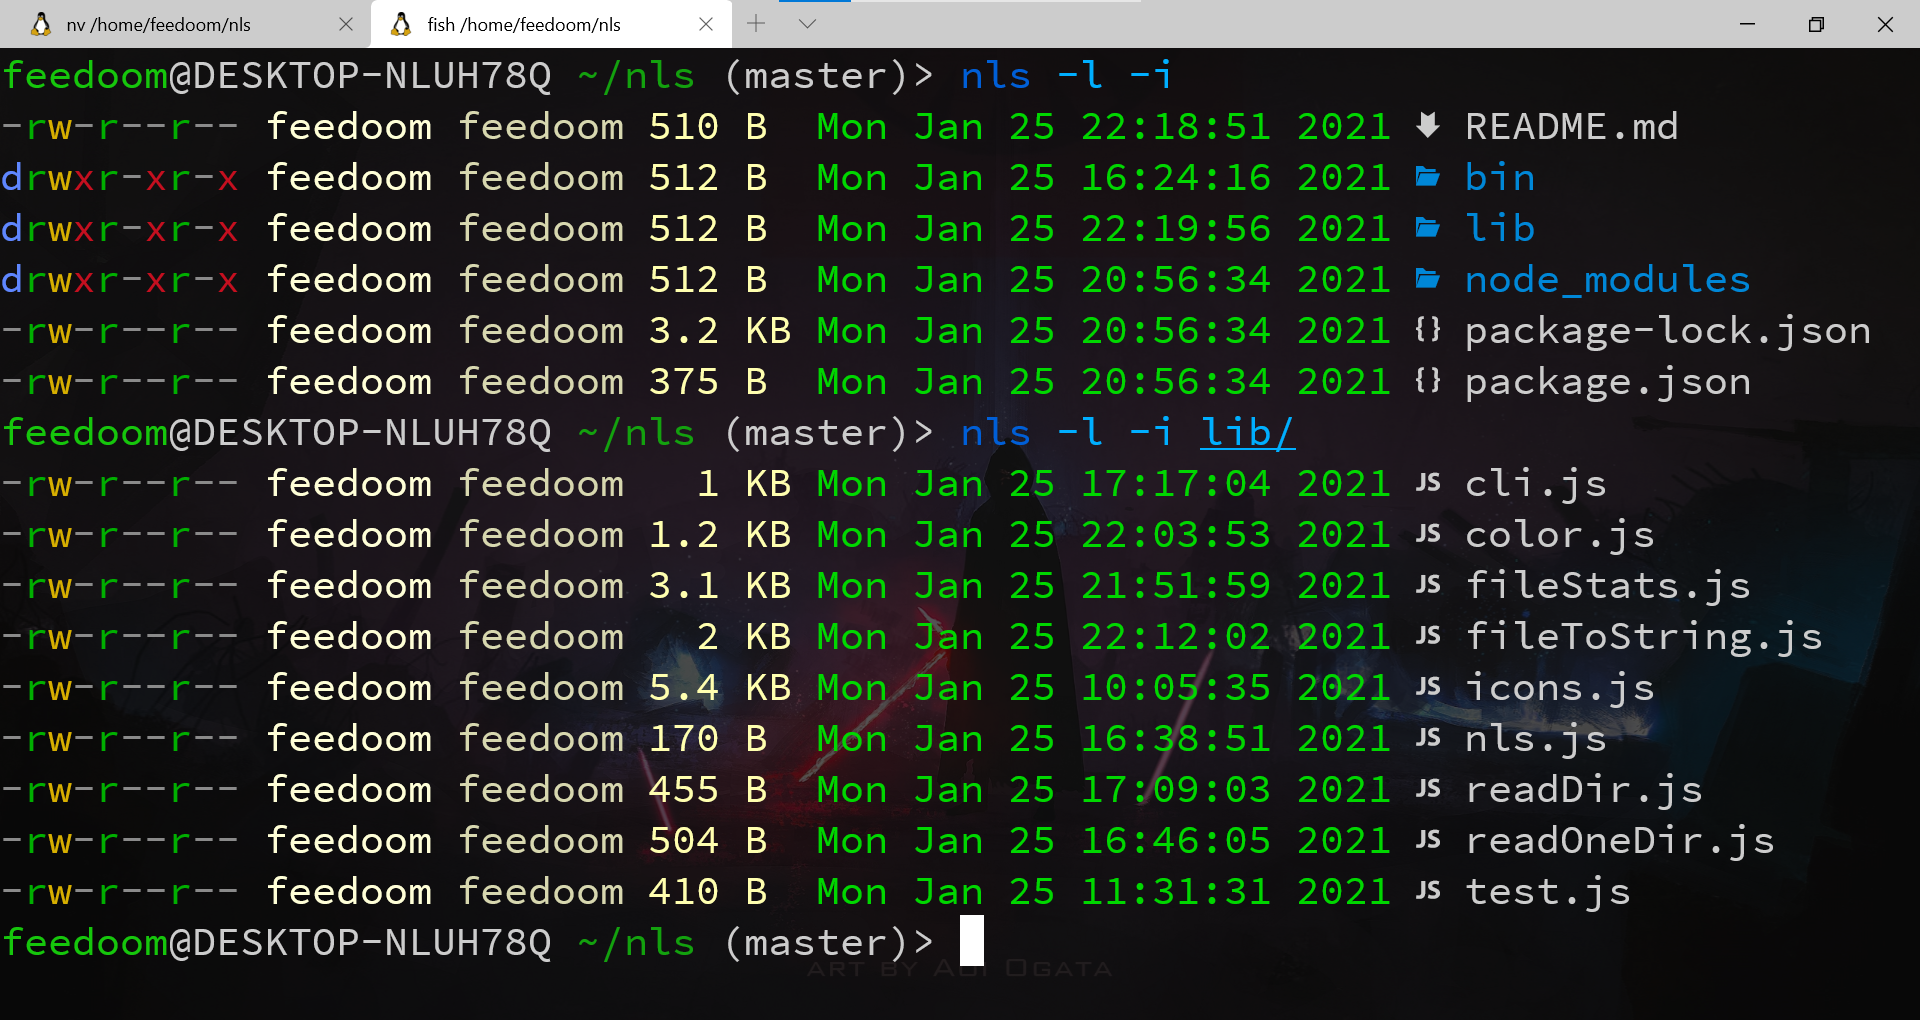
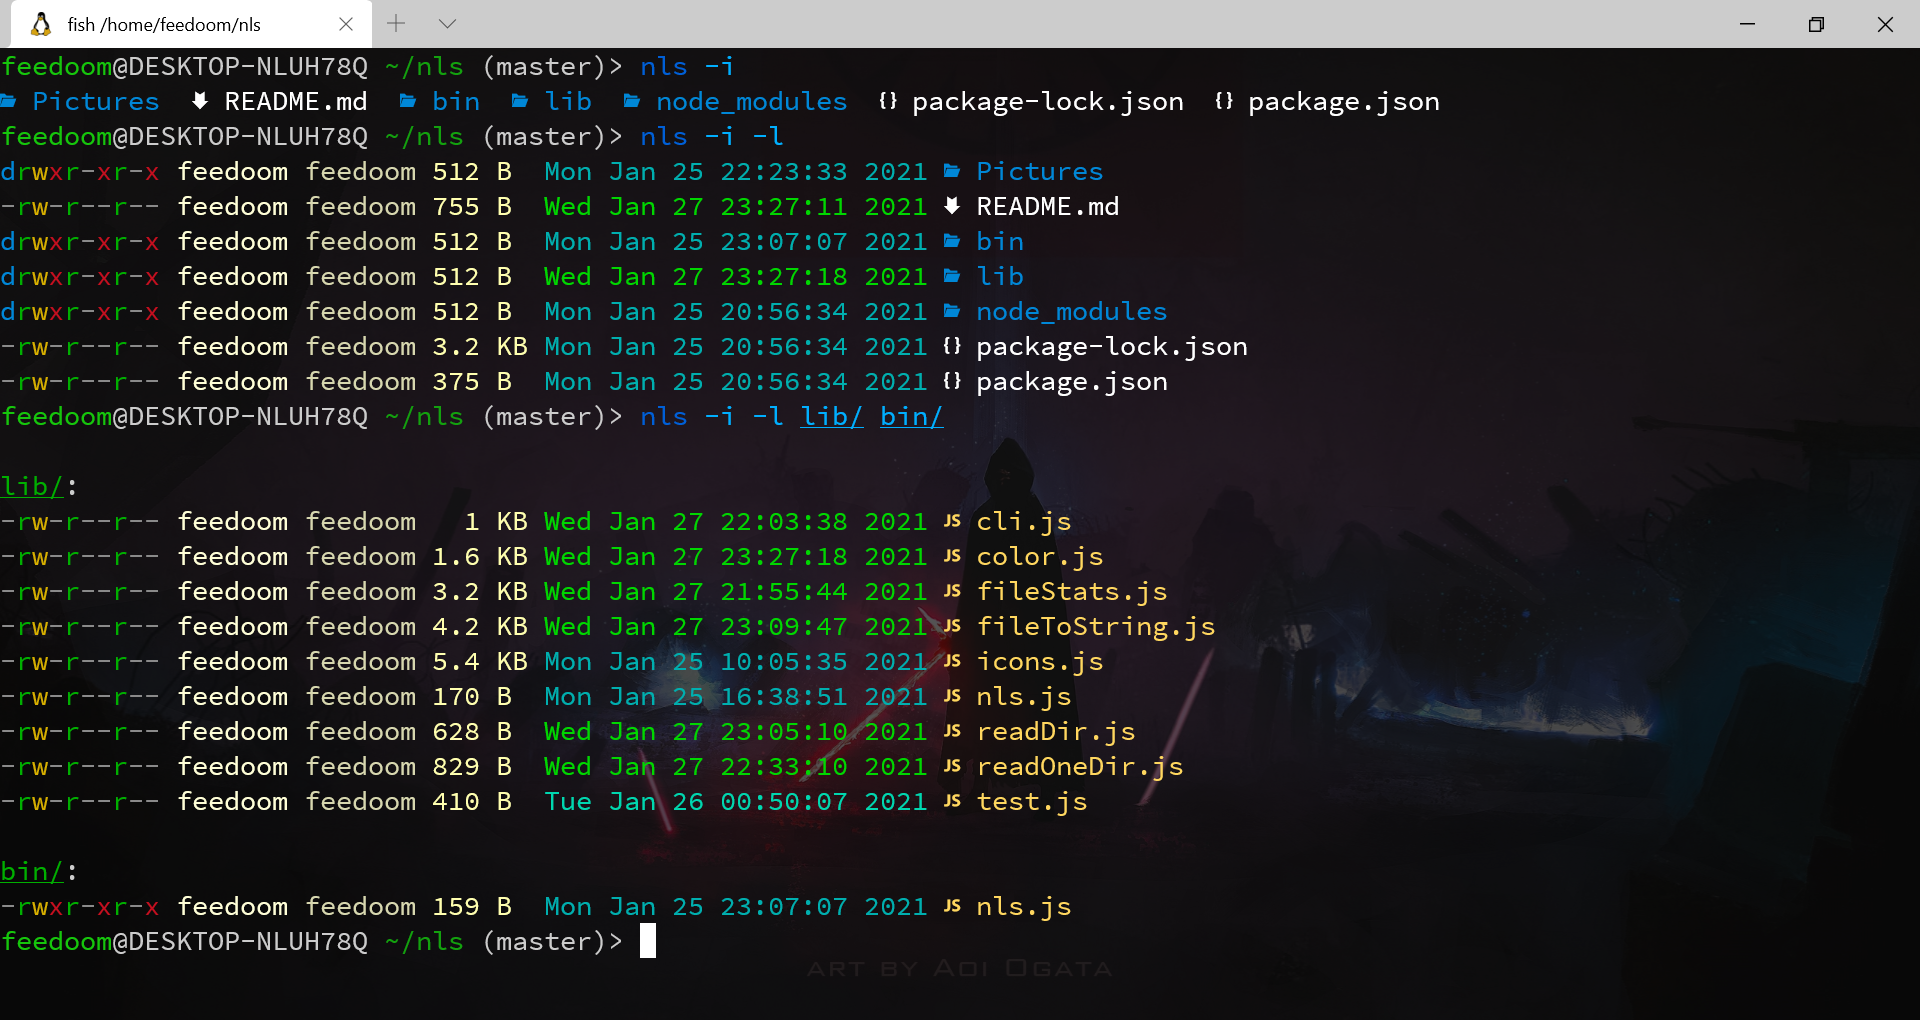
解决空文件夹报错的 bug 解决中文字输出不对齐的 bug 添加一些文件颜色

Changed region(s): [[0.0, 0.0, 0.9688, 0.9422], [0.7812, 0.6686, 0.875, 0.7294], [0.9062, 0.8206, 0.9375, 0.851]]

diff --git a/lib/fileToString.js b/lib/fileToString.js
@@ -11,6 +11,16 @@ function addStringKey(filesStats) {
   }
 }
 
+function stringLength(str) {
+  // 获取字符串再屏幕上显示的真实长度，排除中文字
+  let otherStringCount = [...(str + '').matchAll(/[^\x00-\xff]/g)].length
+  return str.length - otherStringCount + otherStringCount * 2
+}
+
+function padSpace(str, num) {
+  // 用空格填充字符串
+  return str + ' '.repeat(num - stringLength(str))
+}
 
 function joinString(fileStringArr) {
   // 将文件名(行 * 列)数组合成字符串数组
@@ -20,7 +30,7 @@ function joinString(fileStringArr) {
   for(let i = 0; i < fileStringArr[0].length; i++) {
     let maxColumn = 0
     for(let j = 0; j < fileStringArr.length; j++) {
-      let currentStringLength = fileStringArr[j][i] ? fileStringArr[j][i].length : 0
+      let currentStringLength = fileStringArr[j][i] ? stringLength(fileStringArr[j][i]) : 0
       if(currentStringLength > maxColumn) maxColumn = currentStringLength
     }
     maxColumns.push(maxColumn)
@@ -32,9 +42,9 @@ function joinString(fileStringArr) {
   fileStringArr.forEach(currentRowFiles => {
     let str = ''
     for(let i = 0; i < currentRowFiles.length; i++) {
-      let tmp = currentRowFiles[i].padEnd(maxColumns[i], ' ')
-      str += tmp
-      spaceArr.push(' '.repeat(tmp.length - currentRowFiles[i].length))
+      let currentFile = padSpace(currentRowFiles[i], maxColumns[i])
+      str += currentFile
+      spaceArr.push(' '.repeat(stringLength(currentFile) - stringLength(currentRowFiles[i])))
     }
     joinString.push(str + '\n')
     spaceArr[spaceArr.length - 1] = spaceArr[spaceArr.length - 1] + '\n'

diff --git a/lib/readOneDir.js b/lib/readOneDir.js
@@ -19,9 +19,14 @@ function readOneDir(filePath, argvs) {
         reject(`nls: cannot access '${filePath}': No such file or directory`)
         return ;
       }
-      files = files.map(item => path.join(fullPath, item))
-      let filesStats = await fileStats(files)
-      resolve(fileToString(filesStats, argvs))
+      if(files.length === 0) {
+        // 空文件夹
+        return ''
+      } else {
+        files = files.map(item => path.join(fullPath, item))
+        let filesStats = await fileStats(files)
+        resolve(fileToString(filesStats, argvs))
+      }
     })
   })
 }

diff --git a/lib/color.js b/lib/color.js
@@ -63,8 +63,20 @@ function size(str) {
 
 function fileColor(file, str) {
   switch (file) {
+    case 'html':
+      return chalk.hex('#E44D26')(str)
+    case 'css':
+      return chalk.hex('#EF0F63')(str)
     case 'js':
       return chalk.hex('#EFD81D')(str)
+    case 'jsx':
+      return chalk.hex('#61DAFB')(str)
+    case 'vue':
+      return chalk.hex('#41B883')(str)
+    case 'php':
+      return chalk.hex('#7377AD')(str)
+    case 'go':
+      return chalk.hex('#529BBA')(str)
     default :
       return chalk.hex('#E7E8EB')(str)
   }

diff --git a/lib/cli.js b/lib/cli.js
@@ -10,7 +10,7 @@ function isErrorArgv(argv) {
   }
 }
 
-function parseArgv (options, basePath) {
+function parseArgv (options) {
   // 多个路径
   const paths = []
   // 参数
@@ -41,8 +41,8 @@ function parseArgv (options, basePath) {
 }
 
 
-function cli (options, basePath) {
-  return parseArgv(options, basePath)
+function cli (options) {
+  return parseArgv(options)
 }
 
 module.exports = cli

diff --git a/bin/nls.js b/bin/nls.js
@@ -3,6 +3,6 @@
 const cli = require("../lib/cli.js")
 const nls = require("../lib/nls.js")
 
-const options = cli(process.argv, process.cwd())
+const options = cli(process.argv)
 
 nls(options)

diff --git a/README.md b/README.md
@@ -32,4 +32,12 @@ $ nls -a
 $ nls -l
 // 输出文件的图标
 $ nls -i
+// 输出多个文件夹
+$ nls -i dir1/ dir2/
+```
+
+替代 ls
+```
+alias ls='nls -i'
+alias ll='nls -i -l'
 ```
